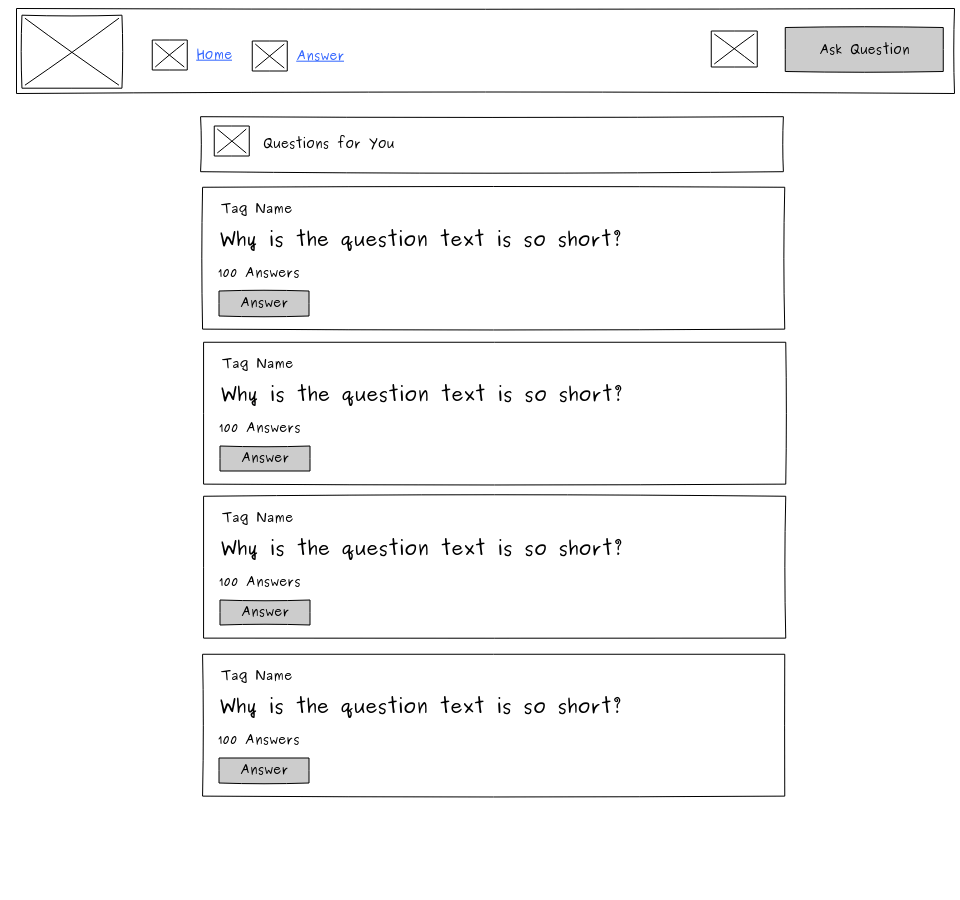
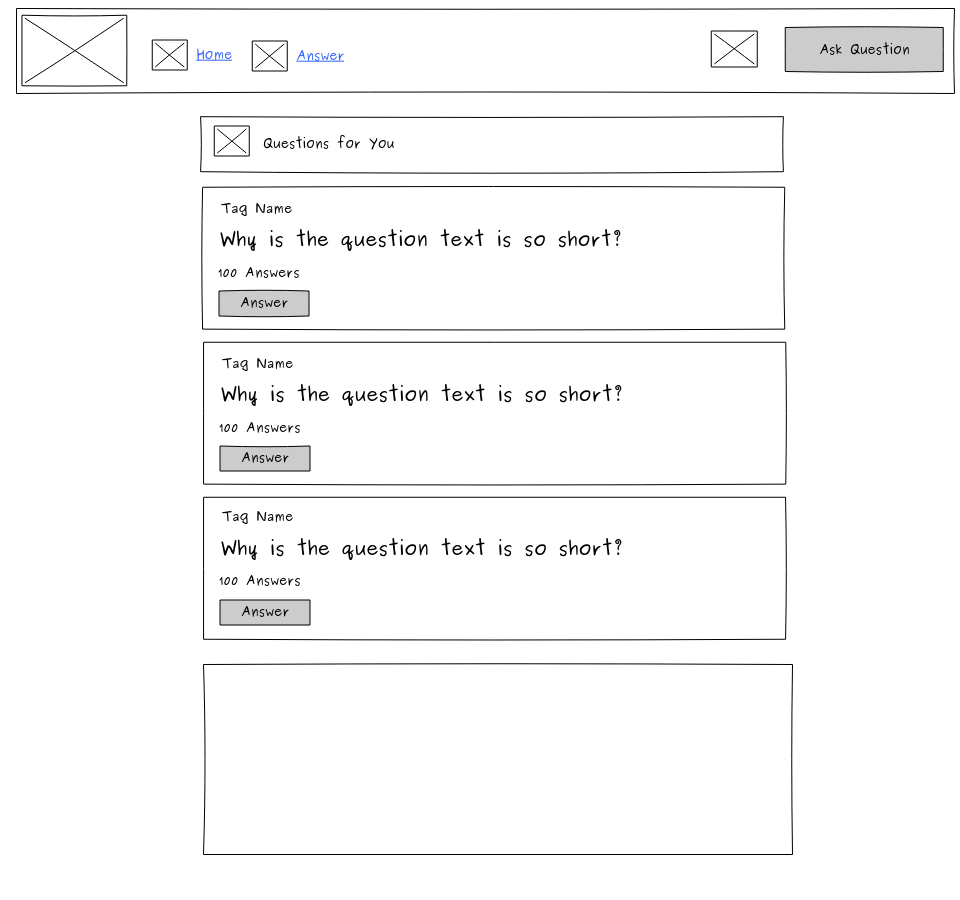
Update wireframe flow

diff --git a/design/wireframe/index.html b/design/wireframe/index.html
@@ -1,2 +1,2 @@
 <html xmlns="http://www.w3.org/1999/xhtml" xmlns:p="http://www.evolus.vn/Namespace/Pencil" xmlns:html="http://www.w3.org/1999/xhtml"><head><meta http-equiv="Content-Type" content="text/html; charset=UTF-8" />
-<title>forum_wireframe</title><link rel="stylesheet" href="Resources/SampleStyle.css" /></head><body><h1 id="documentTitle">forum_wireframe</h1><p id="documentMetadata">Exported at: Mon Nov 06 2017 16:45:24 GMT+0700 (WIB)</p><div class="Page" id="welcome_page"><h2>Welcome</h2><div class="ImageContainer"><img src="pages/welcome.png" width="960" height="900" usemap="#map_welcome" /></div><map name="map_welcome"><area shape="rect" coords="260,580,350,605" href="#home_page" title="Go to page 'Home'" /><area shape="rect" coords="600,522,690,547" href="#home_page" title="Go to page 'Home'" /></map></div><div class="Page" id="home_page"><h2>Home</h2><div class="ImageContainer"><img src="pages/home.png" width="960" height="900" usemap="#map_home" /></div><map name="map_home"><area shape="rect" coords="252.25,41,344.1875,71" href="#answer_page" title="Go to page 'Answer'" /><area shape="rect" coords="785.25,26.5,943.25,71.5" href="#ask_page" title="Go to page 'Ask'" /><area shape="rect" coords="711.25,31,757.25,67" href="#profile_page" title="Go to page 'Profile'" /></map></div><div class="Page" id="ask_page"><h2>Ask</h2><div class="ImageContainer"><img src="pages/ask.png" width="960" height="900" usemap="#map_ask" /></div><map name="map_ask"><area shape="rect" coords="252.25,41,344.1875,71" href="#answer_page" title="Go to page 'Answer'" /><area shape="rect" coords="152.25,40,232.1875,70" href="#home_page" title="Go to page 'Home'" /><area shape="rect" coords="785.25,27.5,943.25,71.5" href="#ask_page" title="Go to page 'Ask'" /><area shape="rect" coords="711.25,31,757.25,67" href="#profile_page" title="Go to page 'Profile'" /></map></div><div class="Page" id="answer_page"><h2>Answer</h2><div class="ImageContainer"><img src="pages/answer.png" width="960" height="900" usemap="#map_answer" /></div><map name="map_answer"><area shape="rect" coords="252.25,41,344.1875,71" href="#answer_page" title="Go to page 'Answer'" /><area shape="rect" coords="152.25,40,232.1875,70" href="#home_page" title="Go to page 'Home'" /><area shape="rect" coords="785.25,26.5,943.25,72.5" href="#ask_page" title="Go to page 'Ask'" /><area shape="rect" coords="711.25,31,757.25,67" href="#profile_page" title="Go to page 'Profile'" /><area shape="rect" coords="202.5625,654.25,784.75,797.25" href="#question_page" title="Go to page 'Question'" /><area shape="rect" coords="203.5625,494.25,785.75,638.25" href="#question_page" title="Go to page 'Question'" /><area shape="rect" coords="203.5625,342.25,786.5625,485.25" href="#question_page" title="Go to page 'Question'" /><area shape="rect" coords="201.5625,186.25,784.75,330.25" href="#question_page" title="Go to page 'Question'" /></map></div><div class="Page" id="profile_page"><h2>Profile</h2><div class="ImageContainer"><img src="pages/profile.png" width="960" height="900" usemap="#map_profile" /></div><map name="map_profile"><area shape="rect" coords="252.25,41,344.1875,71" href="#answer_page" title="Go to page 'Answer'" /><area shape="rect" coords="152.25,40,232.1875,70" href="#home_page" title="Go to page 'Home'" /><area shape="rect" coords="785.25,26.5,943.25,72.5" href="#ask_page" title="Go to page 'Ask'" /><area shape="rect" coords="711.25,31,757.25,67" href="#profile_page" title="Go to page 'Profile'" /></map></div><div class="Page" id="question_page"><h2>Question</h2><div class="ImageContainer"><img src="pages/question.png" width="960" height="900" usemap="#map_question" /></div><map name="map_question"><area shape="rect" coords="217,207,307,232" href="#questionanswering_page" title="Go to page 'QuestionAnswering'" /><area shape="rect" coords="252.25,41,344.1875,71" href="#answer_page" title="Go to page 'Answer'" /><area shape="rect" coords="152.25,40,232.1875,70" href="#home_page" title="Go to page 'Home'" /><area shape="rect" coords="785.25,27.5,943.25,71.5" href="#ask_page" title="Go to page 'Ask'" /><area shape="rect" coords="711.25,31,757.25,67" href="#profile_page" title="Go to page 'Profile'" /></map></div><div class="Page" id="questionanswering_page"><h2>QuestionAnswering</h2><div class="ImageContainer"><img src="pages/questionanswering.png" width="960" height="900" usemap="#map_questionanswering" /></div><map name="map_questionanswering"><area shape="rect" coords="217,207,307,232" href="#question_page" title="Go to page 'Question'" /><area shape="rect" coords="252.25,41,344.1875,71" href="#answer_page" title="Go to page 'Answer'" /><area shape="rect" coords="152.25,40,232.1875,70" href="#home_page" title="Go to page 'Home'" /><area shape="rect" coords="785.25,27.5,943.25,71.5" href="#ask_page" title="Go to page 'Ask'" /><area shape="rect" coords="711.25,31,757.25,67" href="#profile_page" title="Go to page 'Profile'" /></map></div></body></html>
+<title>forum_wireframe</title><link rel="stylesheet" href="Resources/SampleStyle.css" /></head><body><h1 id="documentTitle">forum_wireframe</h1><p id="documentMetadata">Exported at: Mon Nov 06 2017 17:15:11 GMT+0700 (WIB)</p><div class="Page" id="welcome_page"><h2>Welcome</h2><div class="ImageContainer"><img src="pages/welcome.png" width="960" height="900" usemap="#map_welcome" /></div><map name="map_welcome"><area shape="rect" coords="260,580,350,605" href="#home_page" title="Go to page 'Home'" /><area shape="rect" coords="600,521,690,547" href="#home_page" title="Go to page 'Home'" /></map></div><div class="Page" id="home_page"><h2>Home</h2><div class="ImageContainer"><img src="pages/home.png" width="960" height="900" usemap="#map_home" /></div><map name="map_home"><area shape="rect" coords="252.25,41,344.1875,71" href="#answer_page" title="Go to page 'Answer'" /><area shape="rect" coords="785.25,27.5,943.25,71.5" href="#ask_page" title="Go to page 'Ask'" /><area shape="rect" coords="711.25,31,757.25,67" href="#profile_page" title="Go to page 'Profile'" /></map></div><div class="Page" id="ask_page"><h2>Ask</h2><div class="ImageContainer"><img src="pages/ask.png" width="960" height="900" usemap="#map_ask" /></div><map name="map_ask"><area shape="rect" coords="252.25,41,344.1875,71" href="#answer_page" title="Go to page 'Answer'" /><area shape="rect" coords="152.25,40,232.1875,70" href="#home_page" title="Go to page 'Home'" /><area shape="rect" coords="785.25,26.5,944.25,73.5" href="#ask_page" title="Go to page 'Ask'" /><area shape="rect" coords="711.25,31,757.25,67" href="#profile_page" title="Go to page 'Profile'" /><area shape="rect" coords="638,221,762,253" href="#question_page" title="Go to page 'Question'" /></map></div><div class="Page" id="answer_page"><h2>Answer</h2><div class="ImageContainer"><img src="pages/answer.png" width="960" height="900" usemap="#map_answer" /></div><map name="map_answer"><area shape="rect" coords="252.25,41,344.1875,71" href="#answer_page" title="Go to page 'Answer'" /><area shape="rect" coords="152.25,40,232.1875,70" href="#home_page" title="Go to page 'Home'" /><area shape="rect" coords="785.25,26.5,943.25,72.5" href="#ask_page" title="Go to page 'Ask'" /><area shape="rect" coords="711.25,31,757.25,67" href="#profile_page" title="Go to page 'Profile'" /><area shape="rect" coords="203.5625,497.25,786.5625,640.25" href="#question_page" title="Go to page 'Question'" /><area shape="rect" coords="203.5625,342.25,786.5625,485.25" href="#question_page" title="Go to page 'Question'" /><area shape="rect" coords="201.5625,186.25,784.75,330.25" href="#question_page" title="Go to page 'Question'" /></map></div><div class="Page" id="profile_page"><h2>Profile</h2><div class="ImageContainer"><img src="pages/profile.png" width="960" height="900" usemap="#map_profile" /></div><map name="map_profile"><area shape="rect" coords="252.25,41,344.1875,71" href="#answer_page" title="Go to page 'Answer'" /><area shape="rect" coords="152.25,40,232.1875,70" href="#home_page" title="Go to page 'Home'" /><area shape="rect" coords="785.25,26.5,943.25,72.5" href="#ask_page" title="Go to page 'Ask'" /><area shape="rect" coords="711.25,31,757.25,67" href="#profile_page" title="Go to page 'Profile'" /></map></div><div class="Page" id="question_page"><h2>Question</h2><div class="ImageContainer"><img src="pages/question.png" width="960" height="900" usemap="#map_question" /></div><map name="map_question"><area shape="rect" coords="217,207,307,232" href="#questionanswering_page" title="Go to page 'QuestionAnswering'" /><area shape="rect" coords="252.25,41,344.1875,71" href="#answer_page" title="Go to page 'Answer'" /><area shape="rect" coords="152.25,40,232.1875,70" href="#home_page" title="Go to page 'Home'" /><area shape="rect" coords="785.25,27.5,943.25,71.5" href="#ask_page" title="Go to page 'Ask'" /><area shape="rect" coords="711.25,31,757.25,67" href="#profile_page" title="Go to page 'Profile'" /></map></div><div class="Page" id="questionanswering_page"><h2>QuestionAnswering</h2><div class="ImageContainer"><img src="pages/questionanswering.png" width="960" height="900" usemap="#map_questionanswering" /></div><map name="map_questionanswering"><area shape="rect" coords="217,207,307,232" href="#question_page" title="Go to page 'Question'" /><area shape="rect" coords="252.25,41,344.1875,71" href="#answer_page" title="Go to page 'Answer'" /><area shape="rect" coords="152.25,40,232.1875,70" href="#home_page" title="Go to page 'Home'" /><area shape="rect" coords="785.25,27.5,943.25,71.5" href="#ask_page" title="Go to page 'Ask'" /><area shape="rect" coords="711.25,31,757.25,67" href="#profile_page" title="Go to page 'Profile'" /></map></div></body></html>
